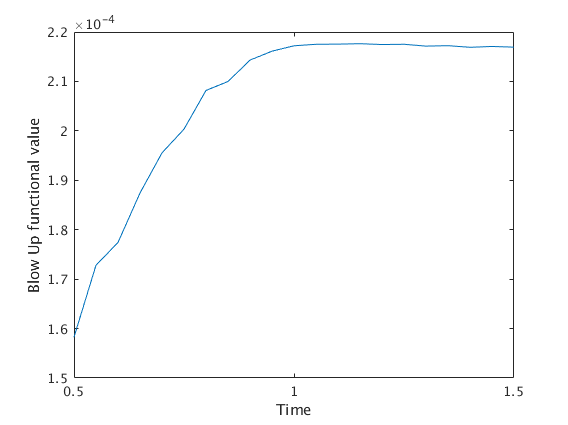
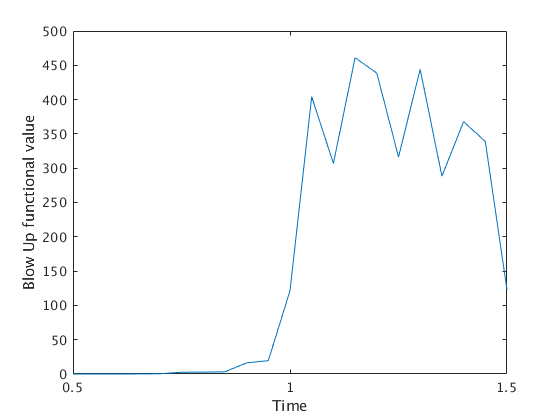
Blow-up wave changed to fundamental solution derivative

diff --git a/programs/finite_element_method/src/plot_blow_up_in_inverse_problem_for_wave_equation.m b/programs/finite_element_method/src/plot_blow_up_in_inverse_problem_for_wave_equation.m
@@ -51,20 +51,24 @@ parfor iTime = 1:numel(TIME_FOR_CHECK)
                                  'g', 0);
     finiteElementMatrices = assembleFEMatrices(model);
     
-    connectionMatrix = transpose(solutions)*finiteElementMatrices.M*solutions;
+    connectionMatrix = ...
+        transpose(solutions)*finiteElementMatrices.M*solutions;
     
+    distanceX = model.Mesh.Nodes(1,:)-TARGET_POINT_X;
+    distanceY = model.Mesh.Nodes(2,:)-TARGET_POINT_Y;
+    fundamentalSolutionDerivative = ...
+        transpose(2*distanceX.*distanceY./(distanceX.^2+distanceY.^2).^2);
+
     borderControlBasisCoefficients = ...
         pinv(connectionMatrix) ...
         *transpose(solutions) ...
         *finiteElementMatrices.M ...
-        *ones(numberOfNodes, 1);
+        *fundamentalSolutionDerivative;
     
-    oneWave = solutions*borderControlBasisCoefficients;
+    fundamentalSolutionDerivativeWave = solutions*borderControlBasisCoefficients;
 
-    distanceX = model.Mesh.Nodes(1,:)-TARGET_POINT_X;
-    distanceY = model.Mesh.Nodes(2,:)-TARGET_POINT_Y;
-    blowUpFunctionalValue(iTime) = sum(transpose(oneWave) ...
-        .*abs(2*distanceX.*distanceY/(distanceX.^2+distanceY.^2).^2)) ...
+    blowUpFunctionalValue(iTime) = sum(fundamentalSolutionDerivativeWave ...
+        .* fundamentalSolutionDerivative)...
         /numel(model.Mesh.Nodes) ...
         *pi;
 end
